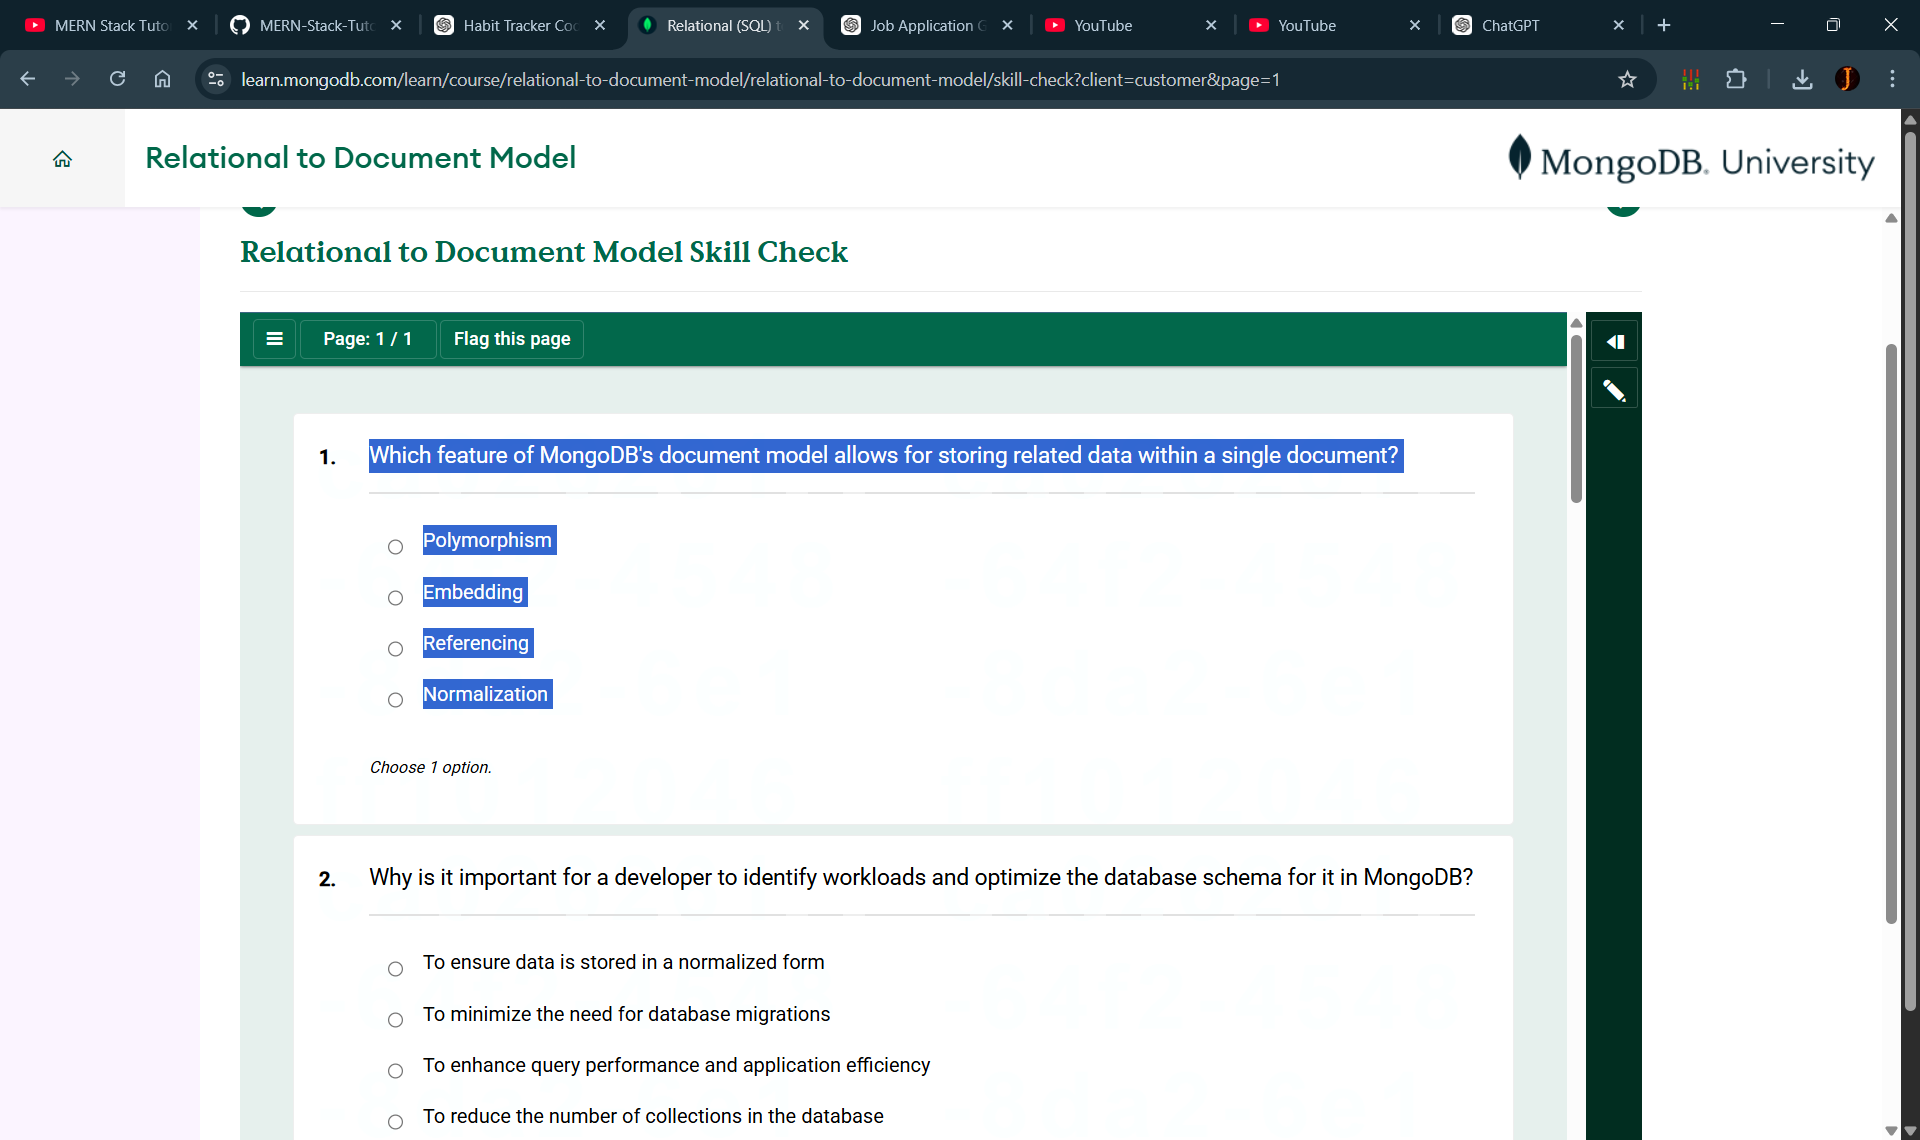
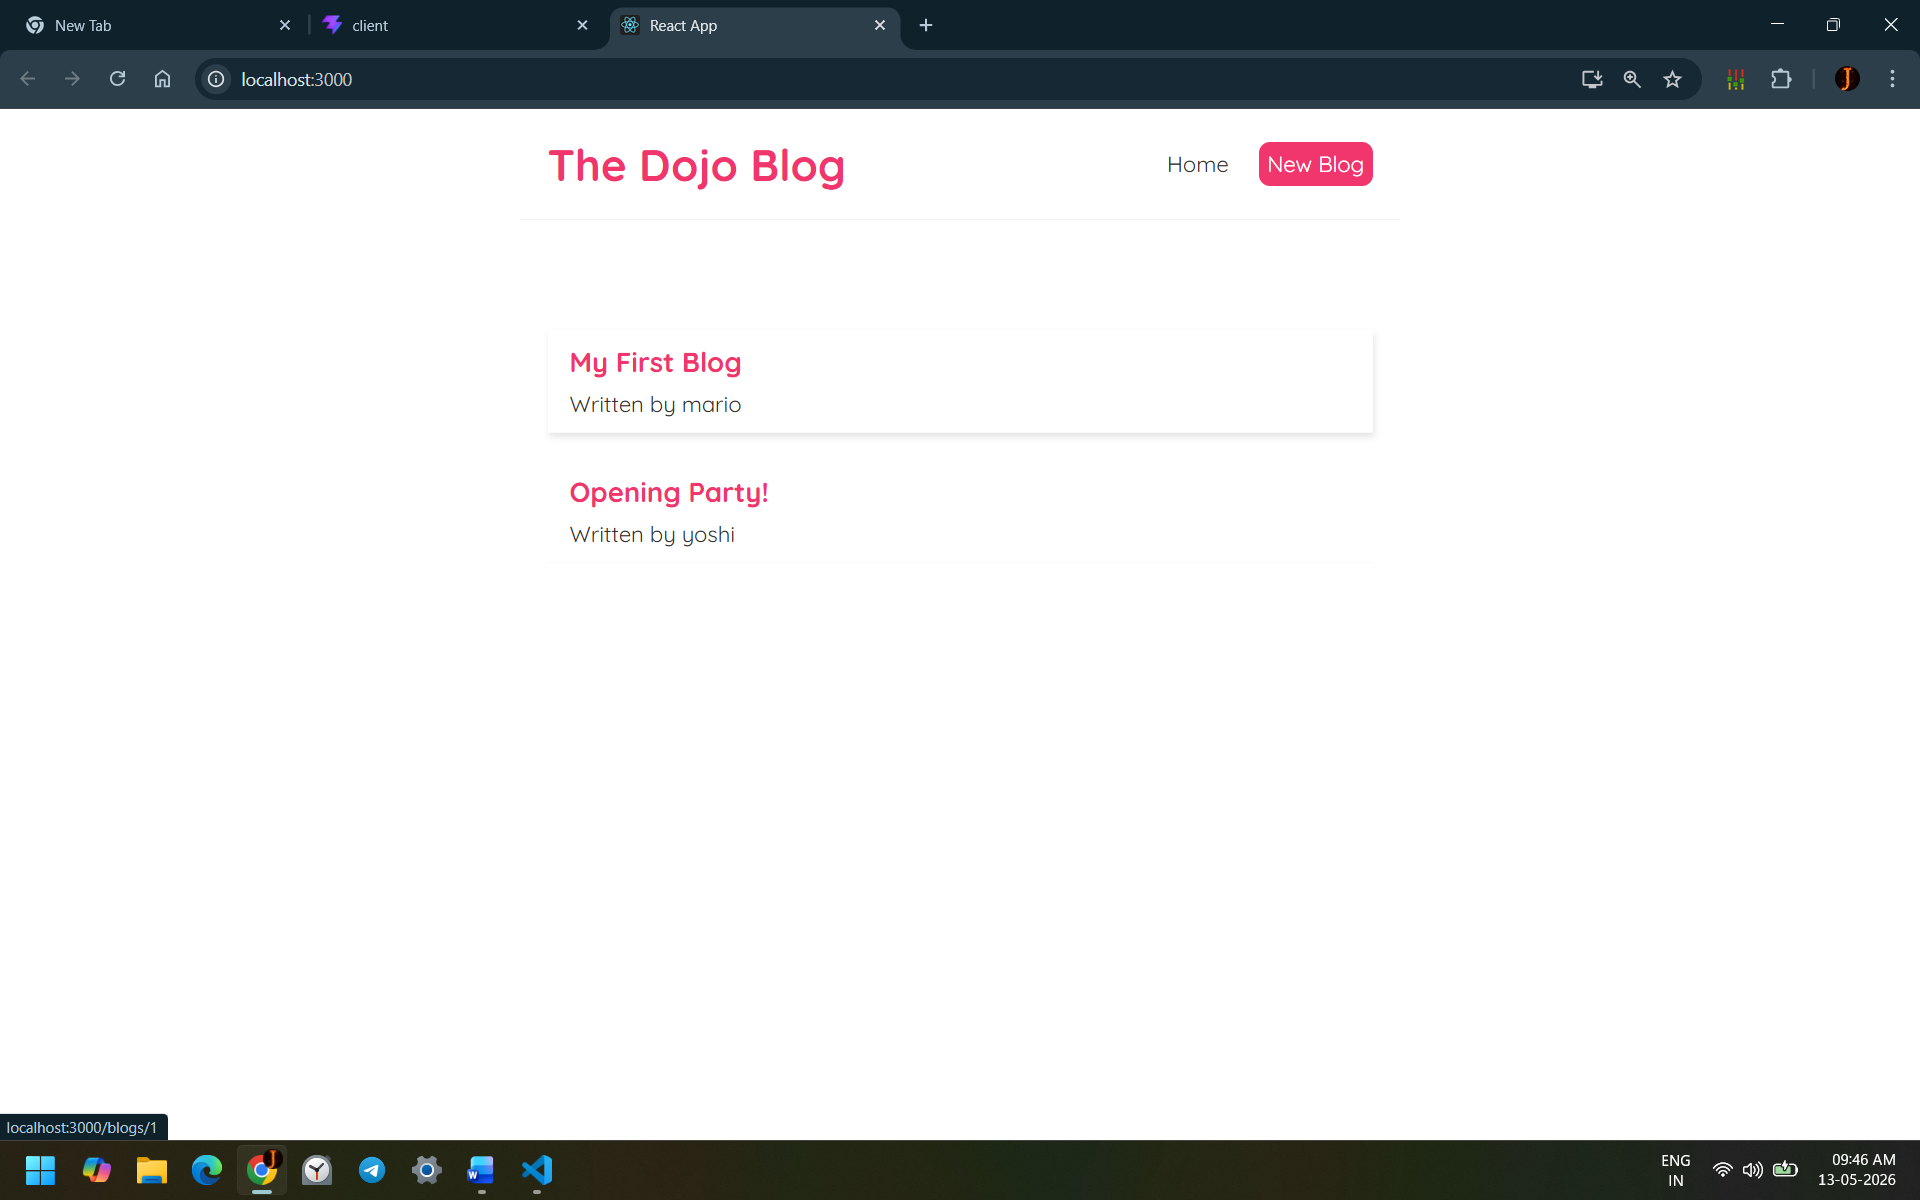
Updated projects section

diff --git a/src/components/Projects.jsx b/src/components/Projects.jsx
@@ -202,6 +202,7 @@ function Projects() {
                 <a
                   href="https://habit-tracker-asn5.vercel.app/"
                   target="_blank"
+                  rel="noreferrer"
 
                   className="
                     border border-white
@@ -219,6 +220,7 @@ function Projects() {
                 <a
                   href="https://github.com/jaysuthar19/habit-tracker"
                   target="_blank"
+                  rel="noreferrer"
 
                   className="
                     bg-white
@@ -312,12 +314,56 @@ function Projects() {
               <p className="
                 text-gray-400
                 leading-relaxed
+                mb-8
               ">
 
                 Full-stack CRUD notes system using REST APIs
                 and MongoDB integration.
 
               </p>
+
+              <div className="
+                flex gap-4
+                flex-wrap
+              ">
+
+                <a
+                  href="https://notes-website-tan.vercel.app/"
+                  target="_blank"
+                  rel="noreferrer"
+
+                  className="
+                    border border-white
+                    px-6 py-3
+                    hover:bg-white
+                    hover:text-black
+                    transition-all duration-300
+                  "
+                >
+
+                  Live Demo
+
+                </a>
+
+                <a
+                  href="https://github.com/jaysuthar19/Notes_website"
+                  target="_blank"
+                  rel="noreferrer"
+
+                  className="
+                    bg-white
+                    text-black
+                    px-6 py-3
+                    hover:scale-105
+                    transition-all duration-300
+                  "
+                >
+
+                  GitHub
+
+                </a>
+
+              </div>
 
             </div>
 
@@ -391,12 +437,56 @@ function Projects() {
               <p className="
                 text-gray-400
                 leading-relaxed
+                mb-8
               ">
 
                 Responsive blog platform with dynamic content
                 management and modern UI.
 
               </p>
+
+              <div className="
+                flex gap-4
+                flex-wrap
+              ">
+
+                <a
+                  href="#"
+                  target="_blank"
+                  rel="noreferrer"
+
+                  className="
+                    border border-white
+                    px-6 py-3
+                    hover:bg-white
+                    hover:text-black
+                    transition-all duration-300
+                  "
+                >
+
+                  Live Demo
+
+                </a>
+
+                <a
+                  href="https://github.com/jaysuthar19/Blogs_website"
+                  target="_blank"
+                  rel="noreferrer"
+
+                  className="
+                    bg-white
+                    text-black
+                    px-6 py-3
+                    hover:scale-105
+                    transition-all duration-300
+                  "
+                >
+
+                  GitHub
+
+                </a>
+
+              </div>
 
             </div>
 